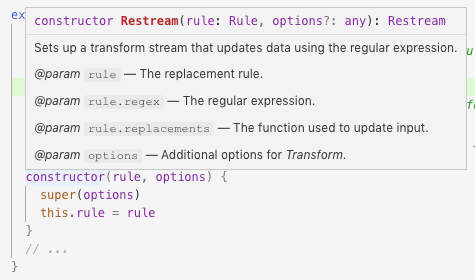
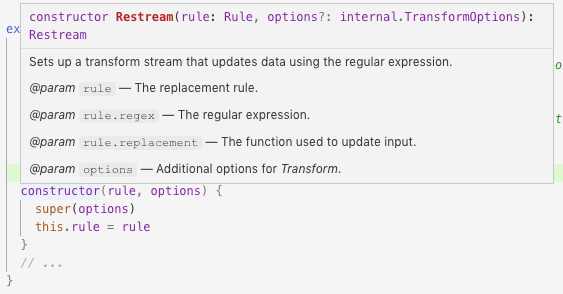
doc closure warnings

Changed region(s): [[0.0, 0.0, 1.0, 0.9714], [0.9726, 0.2571, 1.0, 0.4286], [0.1179, 0.8857, 0.1474, 0.9143]]

diff --git a/example/restream/index2.js b/example/restream/index2.js
@@ -5,22 +5,25 @@ export class Restream extends Transform {
    * Sets up a transform stream that updates data using the regular expression.
    * @param {Rule} rule The replacement rule.
    * @param {RegExp} rule.regex The regular expression.
-   * @param {(...args:string) => string} rule.replacements The function used to update input.
+   * @param {(...args:string) => string} rule.replacement The function used to update input.
    * @param {TransformOptions} [options] Additional options for _Transform_.
    */
   constructor(rule, options) {
     super(options)
     this.rule = rule
   }
-  // ...
+  _transform(chunk, enc, next) {
+    this.push(
+      `${chunk}`.replace(this.rule.regex, this.rule.replacement)
+    )
+    next()
+  }
 }
 
 /* typal example/restream/types.xml */
 /**
- * @typedef {import('stream').TransformOptions} stream.TransformOptions
- */
-/**
+ * @typedef {import('stream').TransformOptions} TransformOptions
  * @typedef {Object} Rule The replacement rule.
  * @prop {RegExp} regex The regular expression.
- * @prop {(...args:string) => string} replacements The function used to update input.
+ * @prop {(...args:string) => string} replacement The function used to update input.
  */

diff --git a/src/lib/typedef/rule.js b/src/lib/typedef/rule.js
@@ -53,16 +53,20 @@ const typedefRule = {
 const joinTypes = (imports, types) => {
   const ts = types.map(tt => tt.toTypedef())
 
-  const is = imports.map(importToTypedef)
+  const is = imports.map((i) => importToTypedef(i, false))
 
   const iss = is.map(makeBlock).join('')
   const tss = ts.join('')
   const importsAndTypes = `${iss}${tss}`
 
-  return importsAndTypes
+  return importsAndTypes.replace(m, ' * @typedef')
 }
 
 export default typedefRule
+
+const m = ` */
+/**
+ * @typedef`
 
 /**
  * @suppress {nonStandardJsDocs}

diff --git a/src/lib/index.js b/src/lib/index.js
@@ -60,8 +60,9 @@ ${s}
 `
 }
 
-export const importToTypedef = (Import) => {
-  return ` * @typedef {import('${Import.from}').${Import.name}} ${Import.from}.${Import.name}`
+export const importToTypedef = (Import, includeNamespace = true) => {
+  const n = includeNamespace ? `${Import.from}.${Import.name}` : Import.name
+  return ` * @typedef {import('${Import.from}').${Import.name}} ${n}`
 }
 
 export const addSuppress = (line) => {

diff --git a/example/restream/warnings.js b/example/restream/warnings.js
@@ -1,0 +1,11 @@
+import { Restream } from './index2'
+
+const restream = new Restream({
+  regex: /__(.+?)__/,
+  replacement(match, s) {
+    return `<em>${s}</em>`
+  },
+})
+
+restream.pipe(process.stdout)
+restream.end('__hello world__')

diff --git a/README.md b/README.md
@@ -166,9 +166,7 @@ export class Restream extends Transform {
 
 /* typal example/restream/types.xml */
 /**
- * @typedef {import('stream').TransformOptions} stream.TransformOptions
- */
-/**
+ * @typedef {import('stream').TransformOptions} TransformOptions
  * @typedef {Object} Rule The replacement rule.
  * @prop {RegExp} regex The regular expression.
  * @prop {(...args:string) => string} replacement The function used to update input.
@@ -196,7 +194,72 @@ Another advantage, is that the `Rule` type was expanded into individual properti
 
 <p align="center"><a href="#table-of-contents"><img src=".documentary/section-breaks/1.svg?sanitize=true" width="20"></a></p>
 
-_**<a name="closure-approach">Closure approach</a>**: Finally, if we want to allow our package to be compiled as part of other packages with GCC, we need to make sure the JSDoc is in the format that it accepts. First, we want to adjust our types:_
+_**<a name="closure-approach">Closure approach</a>**: Finally, if we want to allow our package to be compiled as part of other packages with GCC, we need to make sure the JSDoc is in the format that it accepts._
+
+We create a simple program that uses our _Restream_ library:
+```js
+import { Restream } from './index2'
+
+const restream = new Restream({
+  regex: /__(.+?)__/,
+  replacement(match, s) {
+    return `<em>${s}</em>`
+  },
+})
+
+restream.pipe(process.stdout)
+restream.end('__hello world__')
+```
+
+And run it with Node.JS:
+```html
+<em>hello world</em>
+```
+
+But if we try to compile a program using _GCC_ now (using [_Depack_](https://github.com/dpck/depack)), we'll get warnings:
+
+```js
+java -jar google-closure-compiler-java/compiler.jar --compilation_level ADVANCED \
+--language_out ECMASCRIPT_2017 --formatting PRETTY_PRINT \
+--externs @depack/externs/v8/stream.js --externs @depack/externs/v8/events.js \
+--externs @depack/externs/v8/global.js --externs @depack/externs/v8/nodejs.js \
+--module_resolution NODE --output_wrapper "#!/usr/bin/env node
+'use strict';
+const stream = require('stream');%output%" \
+--js node_modules/stream/package.json \
+     node_modules/stream/index.js \
+     example/restream/warnings.js \
+     example/restream/index2.js
+```
+
+```js
+example/restream/index2.js:6: WARNING - Bad type annotation. Unknown type Rule
+   * @param {Rule} rule The replacement rule.
+             ^
+
+example/restream/index2.js:8: WARNING - Bad type annotation. type not recognized due to syntax error. See https://github.com/google/closure-compiler/wiki/Annotating-JavaScript-for-the-Closure-Compiler for more information.
+   * @param {(...args:string) => string} rule.replacement The function used to update input.
+              ^
+
+example/restream/index2.js:9: WARNING - Bad type annotation. Unknown type TransformOptions
+   * @param {TransformOptions} [options] Additional options for _Transform_.
+             ^
+
+example/restream/index2.js:25: WARNING - Bad type annotation. expected closing } See https://github.com/google/closure-compiler/wiki/Annotating-JavaScript-for-the-Closure-Compiler for more information.
+ * @typedef {import('stream').TransformOptions} TransformOptions
+                   ^
+
+example/restream/index2.js:26: WARNING - Bad type annotation. type annotation incompatible with other annotations. See https://github.com/google/closure-compiler/wiki/Annotating-JavaScript-for-the-Closure-Compiler for more information.
+ * @typedef {Object} Rule The replacement rule.
+   ^
+```
+
+This is because the traditional JSDoc annotation is not compatible with the compiler. To solve that, we need to compile JSDoc in _Closure_ mode with _Typal_. First, we want to adjust our types with the following things:
+
+1. Annotate the nullability of our types, since there's attention to _Null_ in GCC, not like traditional JS.
+1. We also add the `closure` property to the `prop` elements to make them use that type instead of the traditional one. Unfortunately, there's no way to use both in code for _VSCode_ and for _GCC_, however we can still use more readable `type` descriptions when generating README documentation.
+1. Add the namespace, because we're going to generate externs and if there are other programs that define the _Rule_ extern, there would be a conflict between two. Adding namespace ensures that the chances of that happening are minimal. In addition, we prefix the namespace with `_` because we'll put it in externs, and if we or people using our library called a variable `restream`, the compiler will think that its related to the extern which it is not exactly.
+1. Finally, add another type just to illustrate how to reference types across and withing namespaces. Although defined in the same namespace, the properties need to give full reference to the type.
 
 ```xml
 <types namespace="_restream">

diff --git a/documentary/1-Purpose/3-closure.md b/documentary/1-Purpose/3-closure.md
@@ -1,4 +1,55 @@
-_**[Closure approach](t)**: Finally, if we want to allow our package to be compiled as part of other packages with GCC, we need to make sure the JSDoc is in the format that it accepts. First, we want to adjust our types:_
+_**[Closure approach](t)**: Finally, if we want to allow our package to be compiled as part of other packages with GCC, we need to make sure the JSDoc is in the format that it accepts._
+
+We create a simple program that uses our _Restream_ library:
+%EXAMPLE: example/restream/warnings%
+
+And run it with Node.JS:
+%FORK-html example/restream/warnings%
+
+But if we try to compile a program using _GCC_ now (using [_Depack_](https://github.com/dpck/depack)), we'll get warnings:
+
+```js
+java -jar google-closure-compiler-java/compiler.jar --compilation_level ADVANCED \
+--language_out ECMASCRIPT_2017 --formatting PRETTY_PRINT \
+--externs @depack/externs/v8/stream.js --externs @depack/externs/v8/events.js \
+--externs @depack/externs/v8/global.js --externs @depack/externs/v8/nodejs.js \
+--module_resolution NODE --output_wrapper "#!/usr/bin/env node
+'use strict';
+const stream = require('stream');%output%" \
+--js node_modules/stream/package.json \
+     node_modules/stream/index.js \
+     example/restream/warnings.js \
+     example/restream/index2.js
+```
+
+```js
+example/restream/index2.js:6: WARNING - Bad type annotation. Unknown type Rule
+   * @param {Rule} rule The replacement rule.
+             ^
+
+example/restream/index2.js:8: WARNING - Bad type annotation. type not recognized due to syntax error. See https://github.com/google/closure-compiler/wiki/Annotating-JavaScript-for-the-Closure-Compiler for more information.
+   * @param {(...args:string) => string} rule.replacement The function used to update input.
+              ^
+
+example/restream/index2.js:9: WARNING - Bad type annotation. Unknown type TransformOptions
+   * @param {TransformOptions} [options] Additional options for _Transform_.
+             ^
+
+example/restream/index2.js:25: WARNING - Bad type annotation. expected closing } See https://github.com/google/closure-compiler/wiki/Annotating-JavaScript-for-the-Closure-Compiler for more information.
+ * @typedef {import('stream').TransformOptions} TransformOptions
+                   ^
+
+example/restream/index2.js:26: WARNING - Bad type annotation. type annotation incompatible with other annotations. See https://github.com/google/closure-compiler/wiki/Annotating-JavaScript-for-the-Closure-Compiler for more information.
+ * @typedef {Object} Rule The replacement rule.
+   ^
+```
+
+This is because the traditional JSDoc annotation is not compatible with the compiler. To solve that, we need to compile JSDoc in _Closure_ mode with _Typal_. First, we want to adjust our types with the following things:
+
+1. Annotate the nullability of our types, since there's attention to _Null_ in GCC, not like traditional JS.
+1. We also add the `closure` property to the `prop` elements to make them use that type instead of the traditional one. Unfortunately, there's no way to use both in code for _VSCode_ and for _GCC_, however we can still use more readable `type` descriptions when generating README documentation.
+1. Add the namespace, because we're going to generate externs and if there are other programs that define the _Rule_ extern, there would be a conflict between two. Adding namespace ensures that the chances of that happening are minimal. In addition, we prefix the namespace with `_` because we'll put it in externs, and if we or people using our library called a variable `restream`, the compiler will think that its related to the extern which it is not exactly.
+1. Finally, add another type just to illustrate how to reference types across and withing namespaces. Although defined in the same namespace, the properties need to give full reference to the type.
 
 %EXAMPLE: example/restream/types2.xml%
 
